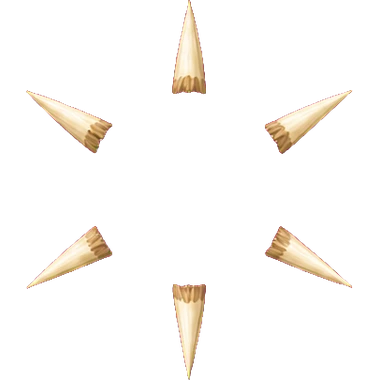
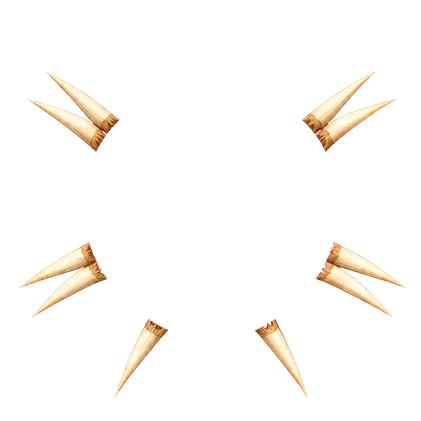
Spikes: the acacia thorns repainted after the round-4 concept Martin liked (pairs, thick, curved), the up and down pairs dropped so none runs into a number

diff --git a/animal_kingdom/web/static/game.css b/animal_kingdom/web/static/game.css
@@ -174,8 +174,8 @@
 /* Board keywords painted on the piece (board.js): hexagon rim for Armor, thorns behind the rim, mist over the portrait, venom down the rim. */
 .game.kit .unit .rimimg.hex { inset: auto; left: calc(-1 * var(--hex-out, 14px)); top: calc(-1 * var(--hex-out, 14px)); width: calc(100% + 2 * var(--hex-out, 14px)); height: calc(100% + 2 * var(--hex-out, 14px)); }
 .game.kit .unit .kwl { position: absolute; pointer-events: none; }
-.game.kit .unit .kwl.thorns { left: calc(-1 * var(--thorn-out, 28px)); top: calc(-1 * var(--thorn-out, 28px)); width: calc(100% + 2 * var(--thorn-out, 28px)); height: calc(100% + 2 * var(--thorn-out, 28px)); rotate: 30deg; }
-.game.kit .unit:has(.rimimg.hex) .kwl.thorns { --thorn-out: 40px; }   /* round the hexagon shell, which reaches further out */
+.game.kit .unit .kwl.thorns { left: calc(-1 * var(--thorn-out, 38px)); top: calc(-1 * var(--thorn-out, 38px)); width: calc(100% + 2 * var(--thorn-out, 38px)); height: calc(100% + 2 * var(--thorn-out, 38px)); }
+.game.kit .unit:has(.rimimg.hex) .kwl.thorns { --thorn-out: 56px; }   /* round the hexagon shell, which reaches further out */
 .game.kit .unit .kwl.mist { left: 18px; top: 18px; width: calc(100% - 36px); height: calc(100% - 36px); border-radius: 50%; opacity: var(--mist-o, .8); }
 .game.kit .unit .kwl.drips { left: 0; top: var(--drip-t, 50%); width: 100%; height: auto; }
 .game.kit .unit .boss { width: 46px; height: 46px; margin-left: -23px; bottom: -16px; border: 0; background: url(/static/kit2/boss_a.webp) center / contain no-repeat; text-shadow: 0 1px 2px rgba(0,0,0,.6); }
